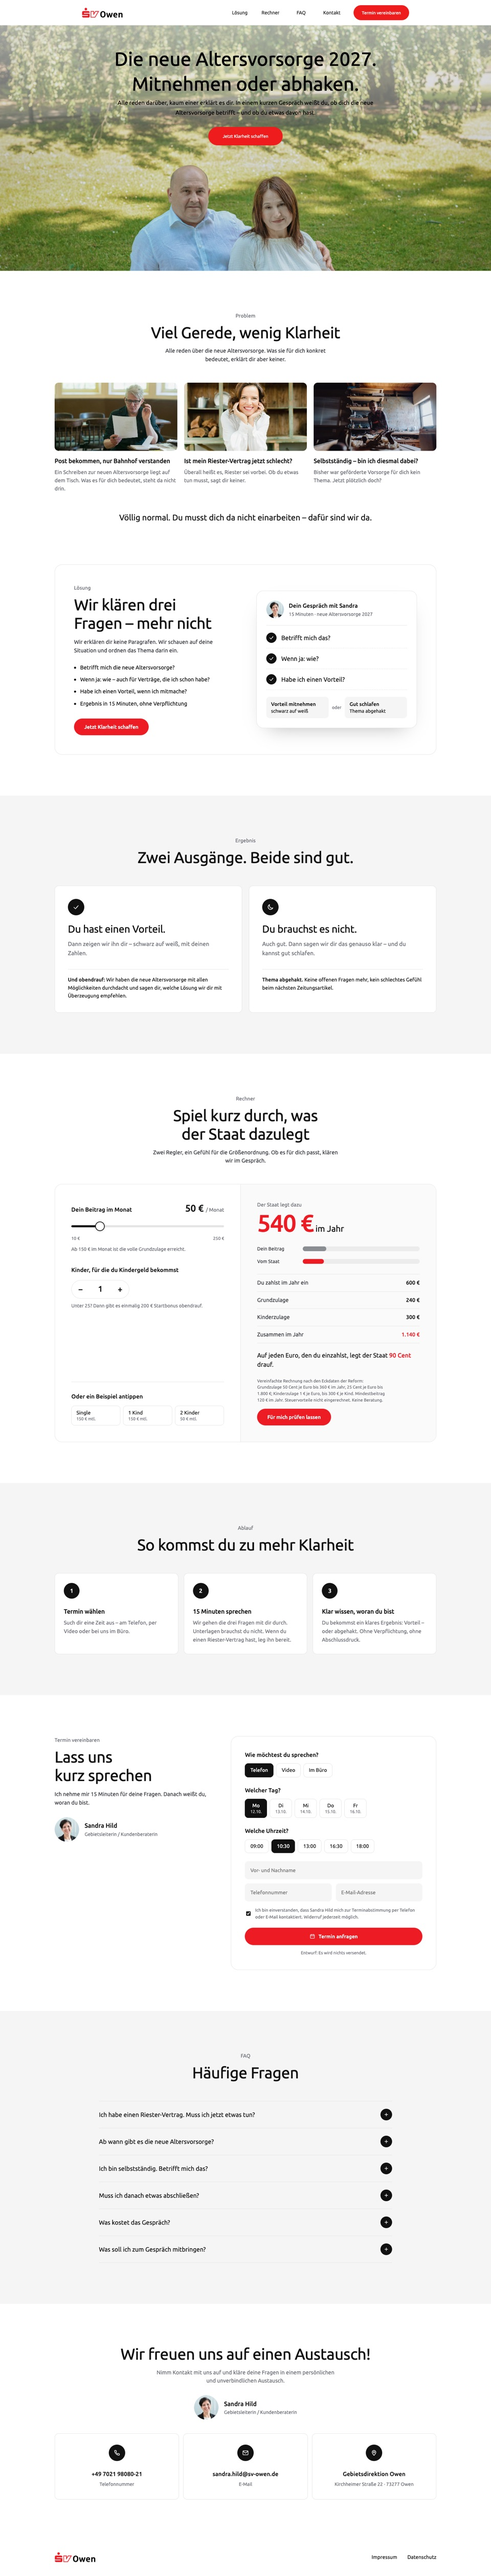
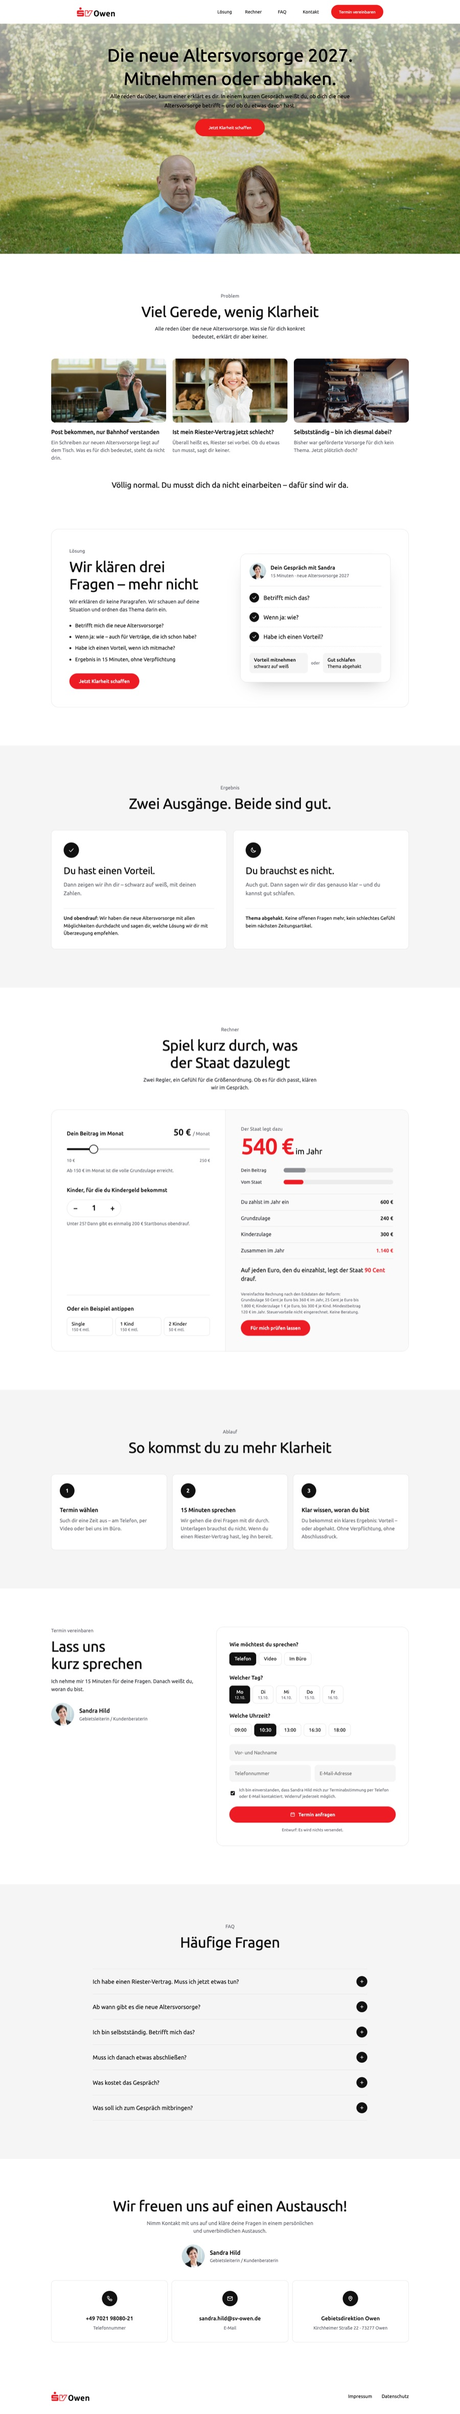
AVRG Übersicht: Landingpage-Varianten als scrollbare Seitenvorschau, Medienkonzept mit laufendem Feed der 30 Postings

diff --git a/site/projekte/avrg.html b/site/projekte/avrg.html
@@ -12,7 +12,7 @@
 <link rel="stylesheet" href="/assets/e2/sg/e2-runde5.css">
 <link rel="stylesheet" href="/assets/e2/schwarzgelb-ergaenzung.css">
 <link rel="stylesheet" href="/assets/e2/kontakt.css">
-<link rel="stylesheet" href="/assets/projekte/avrg/avrg-konzept.css?v=2">
+<link rel="stylesheet" href="/assets/projekte/avrg/avrg-konzept.css?v=4">
 </head>
 <body class="e2">
 
@@ -688,28 +688,30 @@ if(document.readyState==='loading')document.addEventListener('DOMContentLoaded',
     <div class="e2-wrap">
       <p class="e2-kicker">Landingpage &middot; drei Varianten</p>
       <div class="ak-varianten">
-        <a class="ak-karte" href="/projekte/avrg-landingpage-1.html">
-          <span class="ak-karte-bild"><img src="/assets/projekte/avrg/lp-vorschau-1.jpg?v=2" alt="Vorschau Landingpage Variante 1"></span>
-          <span class="ak-karte-text"><small>Landingpage &middot; Variante 1</small><b>Nah an der Vorlage</b><p>Aufbau und Look wie die sofortsichtbar-Seite für SV Owen: drei Generationen im Aufmacher, Fotokarten zu den Problemen, Lösungskasten, Rechner, Termin.</p><span class="ak-pfeil">Variante 1 öffnen &rarr;</span></span>
+        <a class="ak-karte lpv" href="/projekte/avrg-landingpage-1.html">
+          <span class="lpv-fenster"><span class="lpv-leiste"><i></i><i></i><i></i><span>agentur-beispiel.de/neue-altersvorsorge</span></span><span class="lpv-seite"><img src="/assets/projekte/avrg/lp-vorschau-voll-1.jpg?v=3" alt="Vorschau der ganzen Landingpage, Variante 1" loading="lazy"></span><span class="lpv-hinweis">Zum Durchscrollen darüberfahren</span></span>
+          <span class="ak-karte-text"><small>Landingpage &middot; Variante 1</small><b>Nah an der Vorlage</b><p>Kopf und Aufmacher exakt wie die bestehenden Landingpages von SV Owen: Foto über die volle Breite, Text mittig, roter Knopf. Darunter Problem, Lösung, Rechner, Termin.</p><span class="ak-pfeil">Variante 1 öffnen &rarr;</span></span>
         </a>
-        <a class="ak-karte" href="/projekte/avrg-landingpage-2.html">
-          <span class="ak-karte-bild"><img src="/assets/projekte/avrg/lp-vorschau-2.jpg?v=2" alt="Vorschau Landingpage Variante 2"></span>
+        <a class="ak-karte lpv" href="/projekte/avrg-landingpage-2.html">
+          <span class="lpv-fenster"><span class="lpv-leiste"><i></i><i></i><i></i><span>agentur-beispiel.de/neue-altersvorsorge-2</span></span><span class="lpv-seite"><img src="/assets/projekte/avrg/lp-vorschau-voll-2.jpg?v=3" alt="Vorschau der ganzen Landingpage, Variante 2" loading="lazy"></span><span class="lpv-hinweis">Zum Durchscrollen darüberfahren</span></span>
           <span class="ak-karte-text"><small>Landingpage &middot; Variante 2</small><b>Was trifft auf dich zu?</b><p>Gleiche Farben und Elemente, eigene Story: Der Besucher wählt oben seine Lebenslage, die Seite antwortet mit seiner Frage. Dann das Gespräch als Zeitleiste.</p><span class="ak-pfeil">Variante 2 öffnen &rarr;</span></span>
         </a>
-        <a class="ak-karte" href="/projekte/avrg-landingpage-3.html">
-          <span class="ak-karte-bild"><img src="/assets/projekte/avrg/lp-vorschau-3.jpg?v=2" alt="Vorschau Landingpage Variante 3"></span>
-          <span class="ak-karte-text"><small>Landingpage &middot; Variante 3</small><b>Das Klarheits-Ticket</b><p>Maßstab Volksfest-Seite: ein rotes Ticket „15 Minuten Klarheit“ als Bildidee, fünf Menschen, fünf Fragen, kräftige Flächen in Rot und Schwarz.</p><span class="ak-pfeil">Variante 3 öffnen &rarr;</span></span>
+        <a class="ak-karte lpv" href="/projekte/avrg-landingpage-3.html">
+          <span class="lpv-fenster"><span class="lpv-leiste"><i></i><i></i><i></i><span>agentur-beispiel.de/neue-altersvorsorge-3</span></span><span class="lpv-seite"><img src="/assets/projekte/avrg/lp-vorschau-voll-3.jpg?v=3" alt="Vorschau der ganzen Landingpage, Variante 3" loading="lazy"></span><span class="lpv-hinweis">Zum Durchscrollen darüberfahren</span></span>
+          <span class="ak-karte-text"><small>Landingpage &middot; Variante 3</small><b>Das Klarheits-Ticket</b><p>Maßstab Volksfest-Seite: ein rotes Ticket „15 Minuten Klarheit“ als Bildidee, fünf Menschen, fünf Fragen, kräftige Flächen.</p><span class="ak-pfeil">Variante 3 öffnen &rarr;</span></span>
         </a>
       </div>
       <div class="ak-abstand"><p class="e2-kicker">Medienkonzept</p></div>
-      <a class="ak-karte ak-karte--breit" href="/projekte/avrg-medienkonzept.html">
-          <span class="ak-karte-bild"><span class="ak-mk-bild" aria-hidden="true">
-            <span class="post"><span class="post-kopf"><img src="/assets/projekte/avrg/sandra.jpg" alt=""><span><b>Sandra Hild</b></span></span><span class="creative cr-weiss"><h4>Alle reden darüber. Betrifft dich das?</h4><span class="cr-fuss"><span></span><span class="cr-knopf">Link</span></span></span></span>
-            <span class="post"><span class="post-kopf"><img src="/assets/projekte/avrg/sandra.jpg" alt=""><span><b>Sandra Hild</b></span></span><span class="creative cr-zwei"><span class="o" style="display:flex;flex-direction:column;justify-content:center;padding:0 8%"><h4>Mitnehmen.</h4></span><span class="u" style="display:flex;flex-direction:column;justify-content:center;padding:0 8%"><h4>Abhaken.</h4></span></span></span>
-            <span class="post"><span class="post-kopf"><img src="/assets/projekte/avrg/sandra.jpg" alt=""><span><b>Sandra Hild</b></span></span><span class="creative cr-schwarz"><h4>Riester? Kurz einordnen lassen.</h4><span class="cr-fuss"><span></span><span class="cr-knopf">Termin</span></span></span></span>
-          </span></span>
-          <span class="ak-karte-text"><small>Unterseite 2</small><b>Medienkonzept</b><p>Grundidee, Zielgruppe, Hauptclaim, Aufbau der Landingpage, drei Mailings an Bestandskunden, Postings mit Bildwelt und Texten, Webinar, Flyer, Poster, Passantenstopper und Fahrplan.</p><span class="ak-pfeil">Medienkonzept öffnen &rarr;</span></span>
-        </a>
+      <a class="mkv" href="/projekte/avrg-medienkonzept.html">
+        <span class="mkv-text">
+          <small>Unterseite &middot; Medienkonzept</small>
+          <b>Alles, was die Agentur zum Start braucht.</b>
+          <p>30 fertige Postings für Instagram, Facebook und LinkedIn – ohne Logo, sofort einsetzbar. Dazu drei Mailings an Bestandskunden, Webinar, Flyer, Poster, Passantenstopper und der Fahrplan bis Januar.</p>
+          <span class="mkv-kapitel"><span>Strategie</span><span>Landingpage</span><span>Mailings</span><span>Social Media</span><span>Webinar</span><span>Print</span><span>Fahrplan</span></span>
+          <span class="mkv-knopf">Medienkonzept öffnen &rarr;</span>
+        </span>
+        <span class="mkv-feed" aria-hidden="true"><span class="mkv-spalte mkv-spalte--1"><span class="mkv-band"><img src="/assets/projekte/avrg/postings/klein/posting-01.jpg" alt="" loading="lazy"><img src="/assets/projekte/avrg/postings/klein/posting-04.jpg" alt="" loading="lazy"><img src="/assets/projekte/avrg/postings/klein/posting-07.jpg" alt="" loading="lazy"><img src="/assets/projekte/avrg/postings/klein/posting-10.jpg" alt="" loading="lazy"><img src="/assets/projekte/avrg/postings/klein/posting-13.jpg" alt="" loading="lazy"><img src="/assets/projekte/avrg/postings/klein/posting-16.jpg" alt="" loading="lazy"><img src="/assets/projekte/avrg/postings/klein/posting-19.jpg" alt="" loading="lazy"><img src="/assets/projekte/avrg/postings/klein/posting-22.jpg" alt="" loading="lazy"><img src="/assets/projekte/avrg/postings/klein/posting-25.jpg" alt="" loading="lazy"><img src="/assets/projekte/avrg/postings/klein/posting-28.jpg" alt="" loading="lazy"><img src="/assets/projekte/avrg/postings/klein/posting-01.jpg" alt="" loading="lazy"><img src="/assets/projekte/avrg/postings/klein/posting-04.jpg" alt="" loading="lazy"><img src="/assets/projekte/avrg/postings/klein/posting-07.jpg" alt="" loading="lazy"><img src="/assets/projekte/avrg/postings/klein/posting-10.jpg" alt="" loading="lazy"><img src="/assets/projekte/avrg/postings/klein/posting-13.jpg" alt="" loading="lazy"><img src="/assets/projekte/avrg/postings/klein/posting-16.jpg" alt="" loading="lazy"><img src="/assets/projekte/avrg/postings/klein/posting-19.jpg" alt="" loading="lazy"><img src="/assets/projekte/avrg/postings/klein/posting-22.jpg" alt="" loading="lazy"><img src="/assets/projekte/avrg/postings/klein/posting-25.jpg" alt="" loading="lazy"><img src="/assets/projekte/avrg/postings/klein/posting-28.jpg" alt="" loading="lazy"></span></span><span class="mkv-spalte mkv-spalte--2"><span class="mkv-band"><img src="/assets/projekte/avrg/postings/klein/posting-02.jpg" alt="" loading="lazy"><img src="/assets/projekte/avrg/postings/klein/posting-05.jpg" alt="" loading="lazy"><img src="/assets/projekte/avrg/postings/klein/posting-08.jpg" alt="" loading="lazy"><img src="/assets/projekte/avrg/postings/klein/posting-11.jpg" alt="" loading="lazy"><img src="/assets/projekte/avrg/postings/klein/posting-14.jpg" alt="" loading="lazy"><img src="/assets/projekte/avrg/postings/klein/posting-17.jpg" alt="" loading="lazy"><img src="/assets/projekte/avrg/postings/klein/posting-20.jpg" alt="" loading="lazy"><img src="/assets/projekte/avrg/postings/klein/posting-23.jpg" alt="" loading="lazy"><img src="/assets/projekte/avrg/postings/klein/posting-26.jpg" alt="" loading="lazy"><img src="/assets/projekte/avrg/postings/klein/posting-29.jpg" alt="" loading="lazy"><img src="/assets/projekte/avrg/postings/klein/posting-02.jpg" alt="" loading="lazy"><img src="/assets/projekte/avrg/postings/klein/posting-05.jpg" alt="" loading="lazy"><img src="/assets/projekte/avrg/postings/klein/posting-08.jpg" alt="" loading="lazy"><img src="/assets/projekte/avrg/postings/klein/posting-11.jpg" alt="" loading="lazy"><img src="/assets/projekte/avrg/postings/klein/posting-14.jpg" alt="" loading="lazy"><img src="/assets/projekte/avrg/postings/klein/posting-17.jpg" alt="" loading="lazy"><img src="/assets/projekte/avrg/postings/klein/posting-20.jpg" alt="" loading="lazy"><img src="/assets/projekte/avrg/postings/klein/posting-23.jpg" alt="" loading="lazy"><img src="/assets/projekte/avrg/postings/klein/posting-26.jpg" alt="" loading="lazy"><img src="/assets/projekte/avrg/postings/klein/posting-29.jpg" alt="" loading="lazy"></span></span><span class="mkv-spalte mkv-spalte--3"><span class="mkv-band"><img src="/assets/projekte/avrg/postings/klein/posting-03.jpg" alt="" loading="lazy"><img src="/assets/projekte/avrg/postings/klein/posting-06.jpg" alt="" loading="lazy"><img src="/assets/projekte/avrg/postings/klein/posting-09.jpg" alt="" loading="lazy"><img src="/assets/projekte/avrg/postings/klein/posting-12.jpg" alt="" loading="lazy"><img src="/assets/projekte/avrg/postings/klein/posting-15.jpg" alt="" loading="lazy"><img src="/assets/projekte/avrg/postings/klein/posting-18.jpg" alt="" loading="lazy"><img src="/assets/projekte/avrg/postings/klein/posting-21.jpg" alt="" loading="lazy"><img src="/assets/projekte/avrg/postings/klein/posting-24.jpg" alt="" loading="lazy"><img src="/assets/projekte/avrg/postings/klein/posting-27.jpg" alt="" loading="lazy"><img src="/assets/projekte/avrg/postings/klein/posting-30.jpg" alt="" loading="lazy"><img src="/assets/projekte/avrg/postings/klein/posting-03.jpg" alt="" loading="lazy"><img src="/assets/projekte/avrg/postings/klein/posting-06.jpg" alt="" loading="lazy"><img src="/assets/projekte/avrg/postings/klein/posting-09.jpg" alt="" loading="lazy"><img src="/assets/projekte/avrg/postings/klein/posting-12.jpg" alt="" loading="lazy"><img src="/assets/projekte/avrg/postings/klein/posting-15.jpg" alt="" loading="lazy"><img src="/assets/projekte/avrg/postings/klein/posting-18.jpg" alt="" loading="lazy"><img src="/assets/projekte/avrg/postings/klein/posting-21.jpg" alt="" loading="lazy"><img src="/assets/projekte/avrg/postings/klein/posting-24.jpg" alt="" loading="lazy"><img src="/assets/projekte/avrg/postings/klein/posting-27.jpg" alt="" loading="lazy"><img src="/assets/projekte/avrg/postings/klein/posting-30.jpg" alt="" loading="lazy"></span></span></span>
+      </a>
     </div>
   </section>
 
@@ -741,6 +743,13 @@ if(document.readyState==='loading')document.addEventListener('DOMContentLoaded',
   </section>
 
 </main>
+<script>
+/* Landingpage-Vorschau: beim Darüberfahren scrollt die Seite einmal durch */
+document.querySelectorAll('.lpv-seite img').forEach(function (img) {
+  function setze() { var f = img.parentNode; f.style.setProperty('--weg', Math.max(0, img.offsetHeight - f.offsetHeight) + 'px'); f.style.setProperty('--dauer', Math.max(4, (img.offsetHeight - f.offsetHeight) / 260) + 's'); }
+  if (img.complete) setze(); img.addEventListener('load', setze); window.addEventListener('resize', setze);
+});
+</script>
 
 
 <footer class="site-footer">

diff --git a/site/assets/projekte/avrg/avrg-konzept.css b/site/assets/projekte/avrg/avrg-konzept.css
@@ -306,3 +306,37 @@
   .ak-fakten{grid-template-columns:1fr}
   .ak-termine li{grid-template-columns:1fr;gap:4px}
 }
+
+/* Übersicht: Landingpage-Vorschau im Browserfenster, scrollt beim Darüberfahren */
+.lpv .lpv-fenster{position:relative;display:block;background:#f3f2f0;padding:16px 16px 0;border-bottom:1px solid #ecebe8}
+.lpv-leiste{display:flex;align-items:center;gap:6px;background:#fff;border-radius:10px 10px 0 0;padding:9px 12px;border:1px solid #e4e1dd;border-bottom:0}
+.lpv-leiste i{width:8px;height:8px;border-radius:50%;background:#d8d5d1}
+.lpv-leiste span{margin-left:8px;flex:1;background:#f3f2f0;border-radius:5px;font-size:.68rem;color:var(--grey-50);padding:3px 8px;white-space:nowrap;overflow:hidden;text-overflow:ellipsis}
+.lpv-seite{display:block;height:340px;overflow:hidden;background:#fff;border:1px solid #e4e1dd;border-bottom:0;--weg:0px;--dauer:8s}
+.lpv-seite img{display:block;width:100%;height:auto;transform:translateY(0);transition:transform 1.2s ease}
+.lpv:hover .lpv-seite img,.lpv:focus-visible .lpv-seite img{transform:translateY(calc(-1 * var(--weg)));transition:transform var(--dauer) linear}
+.lpv-hinweis{position:absolute;right:28px;bottom:14px;background:rgba(26,24,23,.82);color:#fff;font-size:.72rem;font-weight:600;padding:6px 11px;border-radius:999px;transition:opacity .3s}
+.lpv:hover .lpv-hinweis{opacity:0}
+@media (hover:none){.lpv-seite{overflow-y:auto}.lpv-hinweis{display:none}}
+
+/* Übersicht: Medienkonzept mit laufendem Feed der echten Postings */
+.mkv{display:grid;grid-template-columns:minmax(0,.9fr) minmax(0,1.1fr);background:var(--ink);color:#fff;border-radius:var(--radius-card);overflow:hidden;text-decoration:none;min-height:520px;transition:transform .2s}
+.mkv:hover{transform:translateY(-4px)}
+.mkv-text{display:flex;flex-direction:column;justify-content:center;padding:clamp(32px,4vw,56px)}
+.mkv-text small{font-size:.78rem;letter-spacing:.12em;text-transform:uppercase;color:var(--hl)}
+.mkv-text b{font-family:var(--font-serif);font-weight:700;font-size:clamp(1.9rem,3vw,2.7rem);line-height:1.12;margin:.7rem 0 1rem;color:#fff}
+.e2 main .mkv-text p{margin:0;color:#cfcac3;line-height:1.65;max-width:34rem}
+.mkv-kapitel{display:flex;flex-wrap:wrap;gap:6px;margin-top:1.4rem}
+.mkv-kapitel span{font-size:.78rem;font-weight:600;padding:5px 11px;border-radius:999px;border:1px solid #3b3835;color:#e7e2db}
+.mkv-knopf{align-self:flex-start;margin-top:1.8rem;background:var(--hl);color:var(--ink);font-weight:700;padding:13px 22px;border-radius:999px}
+.mkv{height:560px}
+.mkv-feed{position:relative;display:grid;grid-template-columns:repeat(3,minmax(0,1fr));gap:12px;padding:0 20px;height:560px;overflow:hidden;transform:rotate(-4deg) scale(1.12);-webkit-mask:linear-gradient(180deg,transparent 0,#000 12%,#000 88%,transparent 100%);mask:linear-gradient(180deg,transparent 0,#000 12%,#000 88%,transparent 100%)}
+.mkv-spalte{position:relative;overflow:hidden;height:100%}
+.mkv-band{display:flex;flex-direction:column;gap:12px;animation:mkv-hoch 70s linear infinite}
+.mkv-spalte--2 .mkv-band{animation-direction:reverse;animation-duration:80s}
+.mkv-spalte--3 .mkv-band{animation-duration:62s}
+.mkv-band img{display:block;width:100%;aspect-ratio:4/5;border-radius:10px;box-shadow:0 12px 24px rgba(0,0,0,.35)}
+.mkv:hover .mkv-band{animation-play-state:paused}
+@keyframes mkv-hoch{from{transform:translateY(0)}to{transform:translateY(calc(-50% - 6px))}}
+@media (prefers-reduced-motion:reduce){.mkv-band{animation:none}.lpv-seite img{transition:none}}
+@media (max-width:900px){.mkv{grid-template-columns:minmax(0,1fr);height:auto}.mkv-feed{height:380px}}

diff --git a/site/projekte/avrg-medienkonzept.html b/site/projekte/avrg-medienkonzept.html
@@ -12,7 +12,7 @@
 <link rel="stylesheet" href="/assets/e2/sg/e2-runde5.css">
 <link rel="stylesheet" href="/assets/e2/schwarzgelb-ergaenzung.css">
 <link rel="stylesheet" href="/assets/e2/kontakt.css">
-<link rel="stylesheet" href="/assets/projekte/avrg/avrg-konzept.css?v=2">
+<link rel="stylesheet" href="/assets/projekte/avrg/avrg-konzept.css?v=4">
 <link rel="stylesheet" href="/assets/projekte/avrg/avrg-mk.css?v=2">
 </head>
 <body class="e2">
@@ -742,7 +742,7 @@ if(document.readyState==='loading')document.addEventListener('DOMContentLoaded',
           <div class="mk-varianten"><button type="button" class="mk-variante" data-v="1" aria-pressed="true"><img src="/assets/projekte/avrg/lp-vorschau-1.jpg?v=2" alt="">Variante 1 · Vorlage</button><button type="button" class="mk-variante" data-v="2" aria-pressed="false"><img src="/assets/projekte/avrg/lp-vorschau-2.jpg?v=2" alt="">Variante 2 · Lebenslage</button><button type="button" class="mk-variante" data-v="3" aria-pressed="false"><img src="/assets/projekte/avrg/lp-vorschau-3.jpg?v=2" alt="">Variante 3 · Ticket</button></div>
           <div class="ak-browser">
             <div class="ak-browser-bar"><i></i><i></i><i></i><span id="mk-lp-url">agentur-beispiel.de/neue-altersvorsorge</span></div>
-            <div class="ak-browser-seite" tabindex="0" aria-label="Vorschau der Landingpage, scrollbar"><img id="mk-lp-bild" src="/assets/projekte/avrg/lp-vorschau-voll-1.jpg?v=2" alt="Vorschau der gesamten Landingpage"></div>
+            <div class="ak-browser-seite" tabindex="0" aria-label="Vorschau der Landingpage, scrollbar"><img id="mk-lp-bild" src="/assets/projekte/avrg/lp-vorschau-voll-1.jpg?v=3" alt="Vorschau der gesamten Landingpage"></div>
           </div>
           <p class="ak-browser-hinweis">Vorschau zum Durchscrollen &middot; die echten Seiten sind voll klickbar</p>
         </div>

diff --git a/site/assets/projekte/avrg/mk.js b/site/assets/projekte/avrg/mk.js
@@ -36,7 +36,7 @@
     b.addEventListener('click', function () {
       var v = b.dataset.v;
       $$('.mk-variante').forEach(function (x) { x.setAttribute('aria-pressed', x === b ? 'true' : 'false'); });
-      $('#mk-lp-bild').src = '/assets/projekte/avrg/lp-vorschau-voll-' + v + '.jpg?v=2';
+      $('#mk-lp-bild').src = '/assets/projekte/avrg/lp-vorschau-voll-' + v + '.jpg?v=3';
       $('.ak-browser-seite').scrollTop = 0;
       $('#mk-lp-url').textContent = 'agentur-beispiel.de/neue-altersvorsorge' + (v === '1' ? '' : '-' + v);
       $$('.mk-bausteine').forEach(function (l) { l.hidden = l.dataset.v !== v; });
